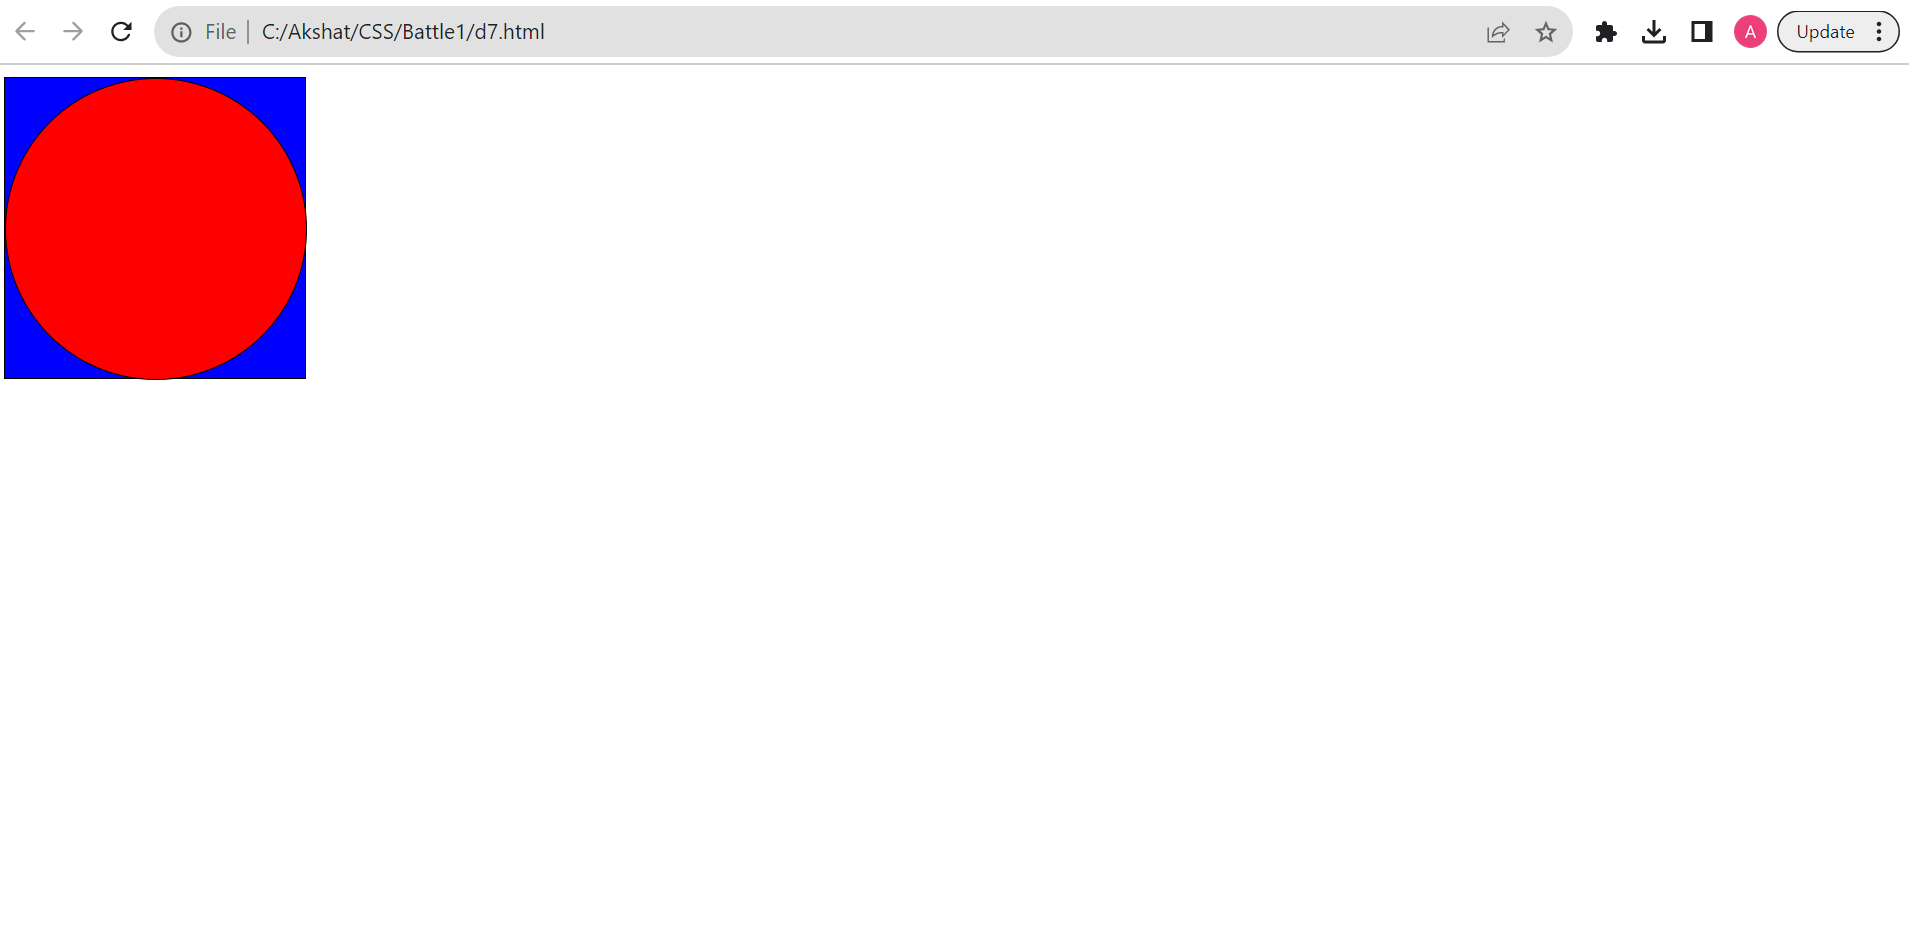
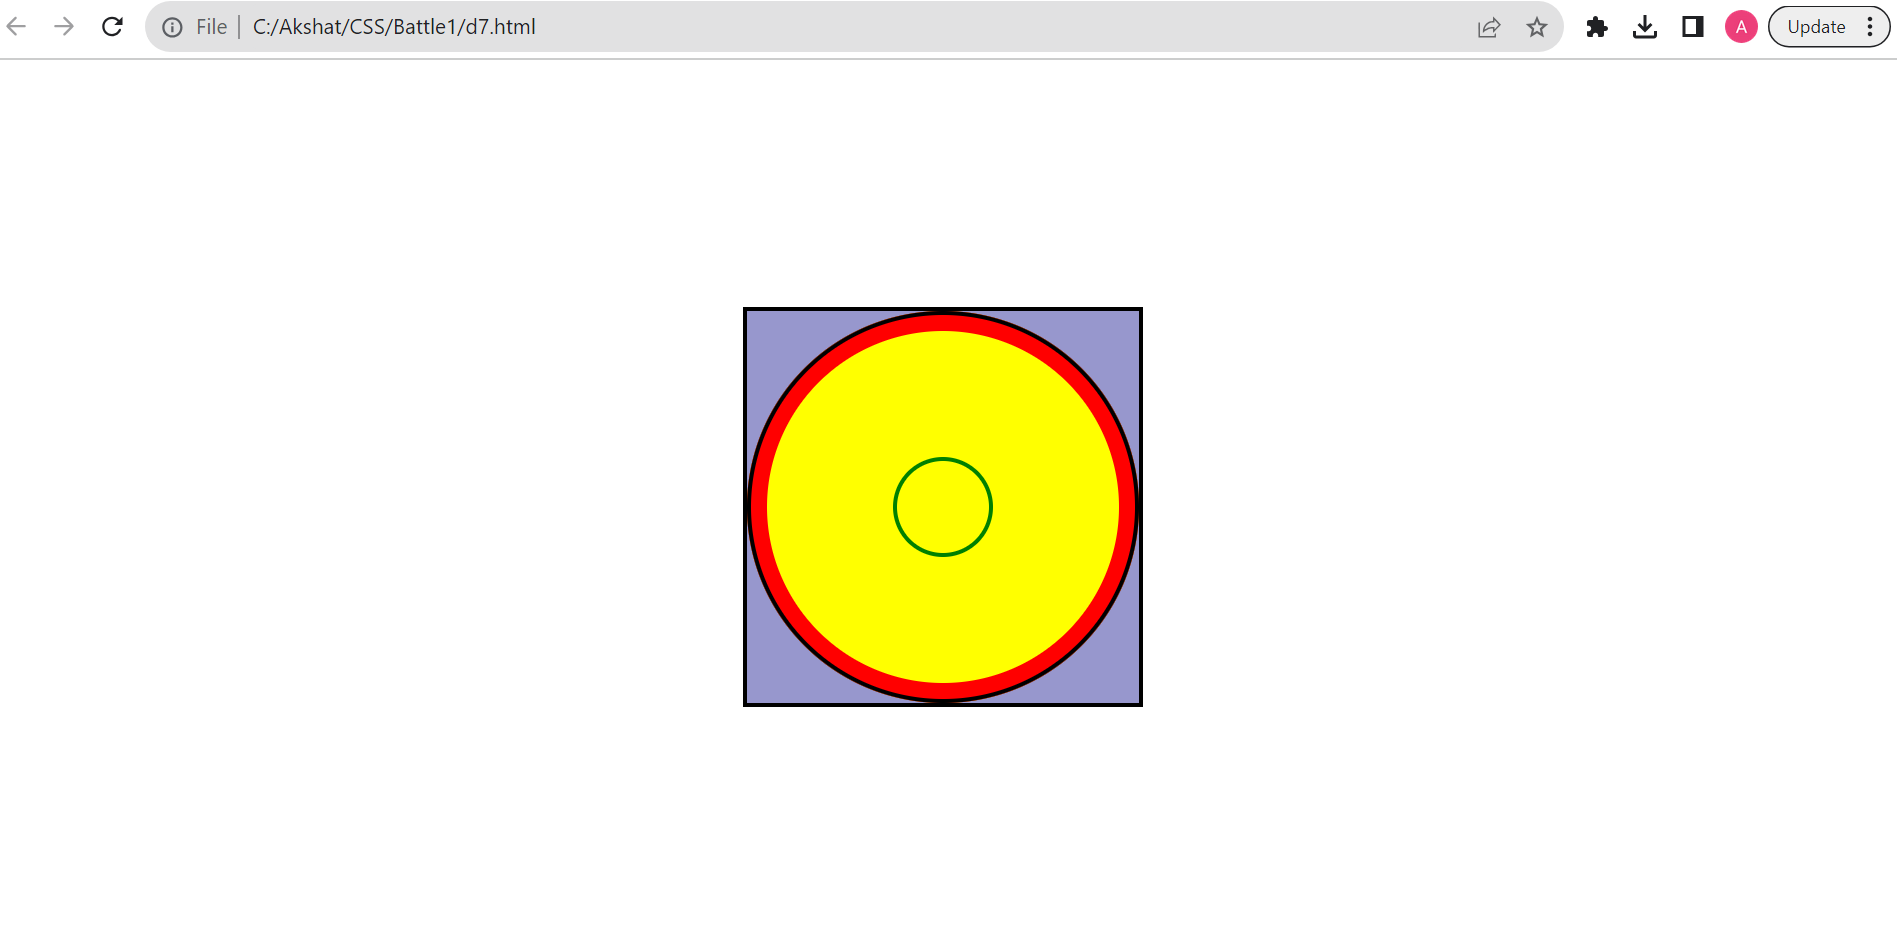
Add files via upload

Changed region(s): [[0.0, 0.0, 1.0, 0.4002], [0.3732, 0.3079, 0.622, 0.7696]]

diff --git a/d7.html b/d7.html
@@ -1,17 +1,53 @@
 <!DOCTYPE html>
 <html lang="en">
 <head>
-    <meta charset="UTF-8">
-    <meta name="viewport" content="width=device-width, initial-scale=1.0">
-    <title>d7</title>
-    <link rel = "stylesheet" href ="style7.css">  
+  <meta charset="UTF-8">
+  <meta name="viewport" content="width=device-width, initial-scale=1.0">
+  <title>Document</title>
+  <style>
+    * {
+      margin: 0;
+      padding: 0;
+      box-sizing: border-box;
+    }
 
+    body {
+      height: 100vh;
+      display: grid;
+      place-items: center;
+    }
+
+    .container {
+      height: 200pt;
+      width: 200pt;
+      background: #9797cd;
+      border: 2pt solid black;
+    }
+
+    .c1 {
+      height: 100%;
+      width: 100%;
+      border-radius: 100%;
+      background: yellow;
+      box-shadow: inset 0 0 0 2pt black,
+                  inset 0 0 0 10pt red;
+      display: grid;
+      place-items: center;
+    }
+
+    .c2-1 {
+      height: 50pt;
+      width: 50pt;
+      border: 2pt solid green;
+      border-radius: 100%;
+    }
+  </style>
 </head>
 <body>
-    <div class="square">
-        <div class="circle1">
-        </div>
-      </div>
-    
+  <div class="container">
+    <div class="c1">
+      <div class="c2-1"></div>
+    </div>
+  </div>
 </body>
 </html>
